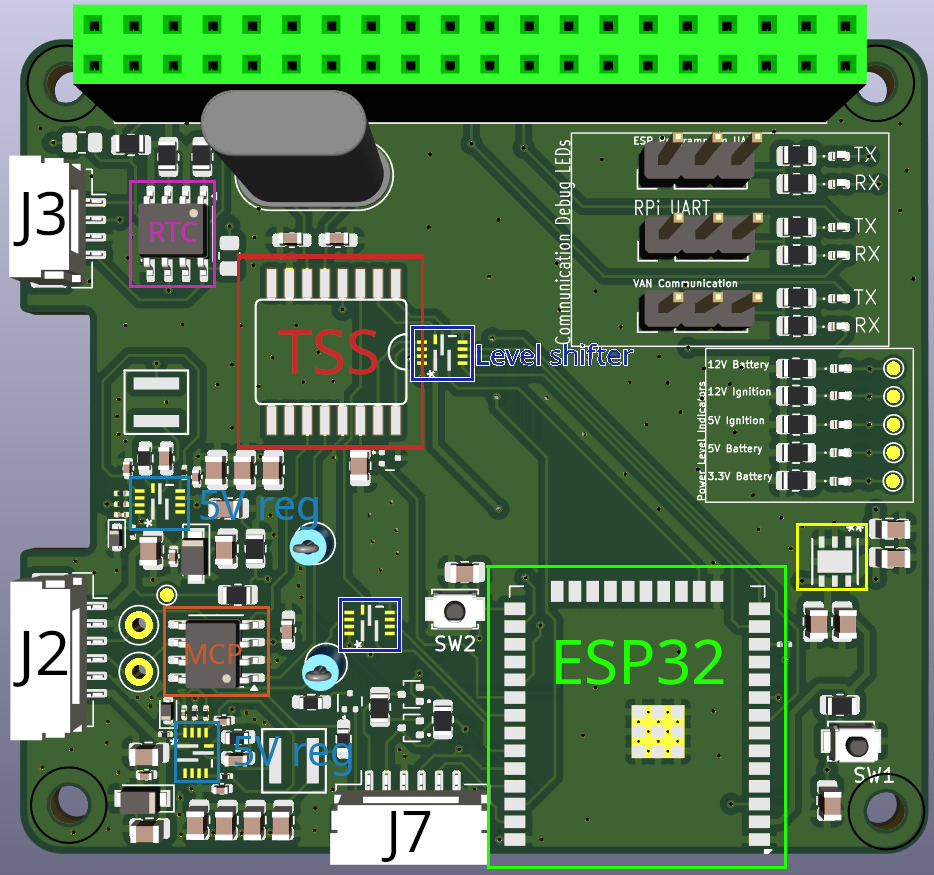
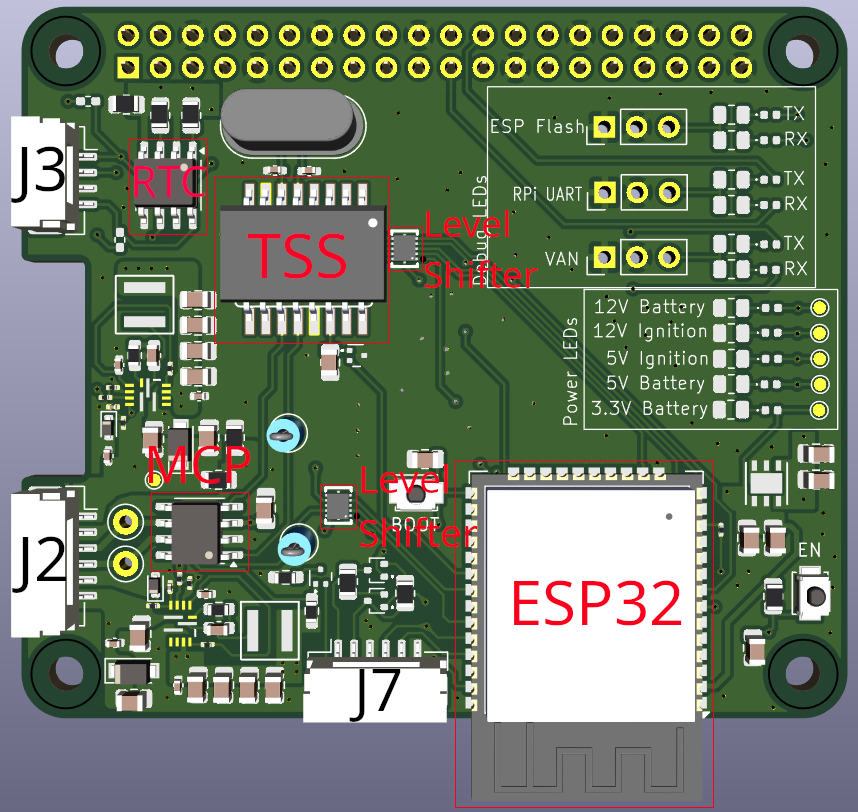
changed pcb render, fixed figure citations

diff --git a/sections/2-theory.tex b/sections/2-theory.tex
@@ -73,7 +73,7 @@ Uređaj ili modul povezan na mrežu može biti jednog od tri tipa:
 \begin{figure}
   \begin{center}
     \includegraphics[width=0.75\textwidth]{images/ranking.pdf}
-    \caption{Vrste modula}
+    \caption{Vrste modula, \cite{tss463c_datasheet}}
   \end{center}
 \end{figure}
 
@@ -104,14 +104,14 @@ U slučaju da se potvrda ne traži, poruka se tretira kao poruka za emitiranje (
 \begin{figure}[H]
     \centering
     \includegraphics[width=\textwidth]{images/normalframe_ack.pdf}
-    \caption{Prijenos normalnog okvira sa ACK}
+    \caption{Prijenos normalnog okvira sa ACK, \cite{tss463c_datasheet}}
     \label{fig:normal_frame_ack}
 \end{figure}
 
 \begin{figure}[H]
     \centering
     \includegraphics[width=\textwidth]{images/normalframe_noack.pdf}
-    \caption{Prijenos normalnog okvira bez ACK}
+    \caption{Prijenos normalnog okvira bez ACK, \cite{tss463c_datasheet}}
     \label{fig:normal_frame_noack}
 \end{figure}
 
@@ -126,7 +126,7 @@ Ostalo (RTR, podaci i kontrolnu sumu) generira modul koji odgovara.
 \begin{figure}[H]
 \centering
 \includegraphics[width=\textwidth]{images/immediate_reply.pdf}
-\caption{Ilustracija prijenosa zahtjeva sa trenutnim odgovorom}
+\caption{Ilustracija prijenosa zahtjeva sa trenutnim odgovorom, \cite{tss463c_datasheet}}
 \label{fig:immediate_reply_frame}
 \end{figure}
 
